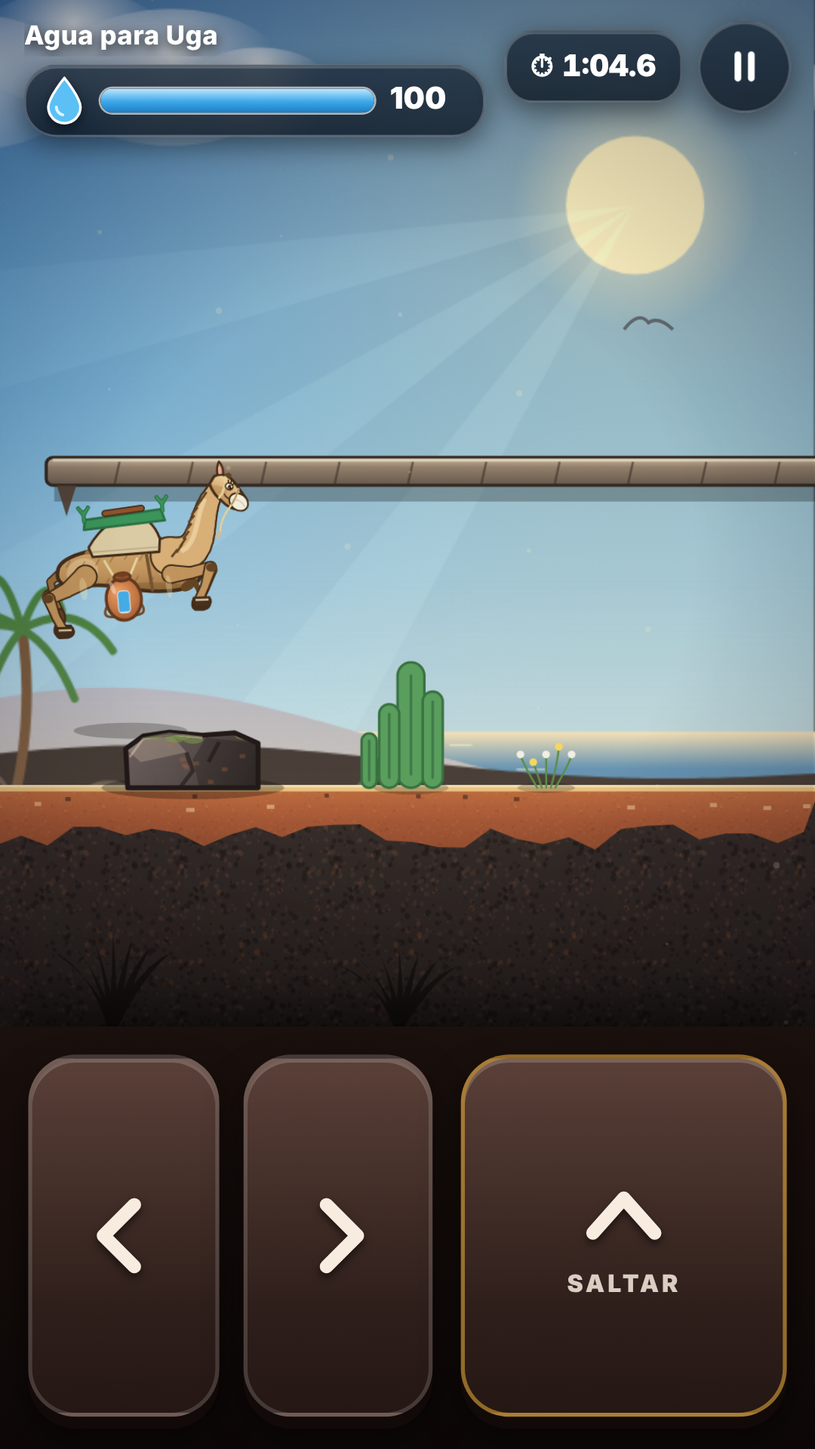
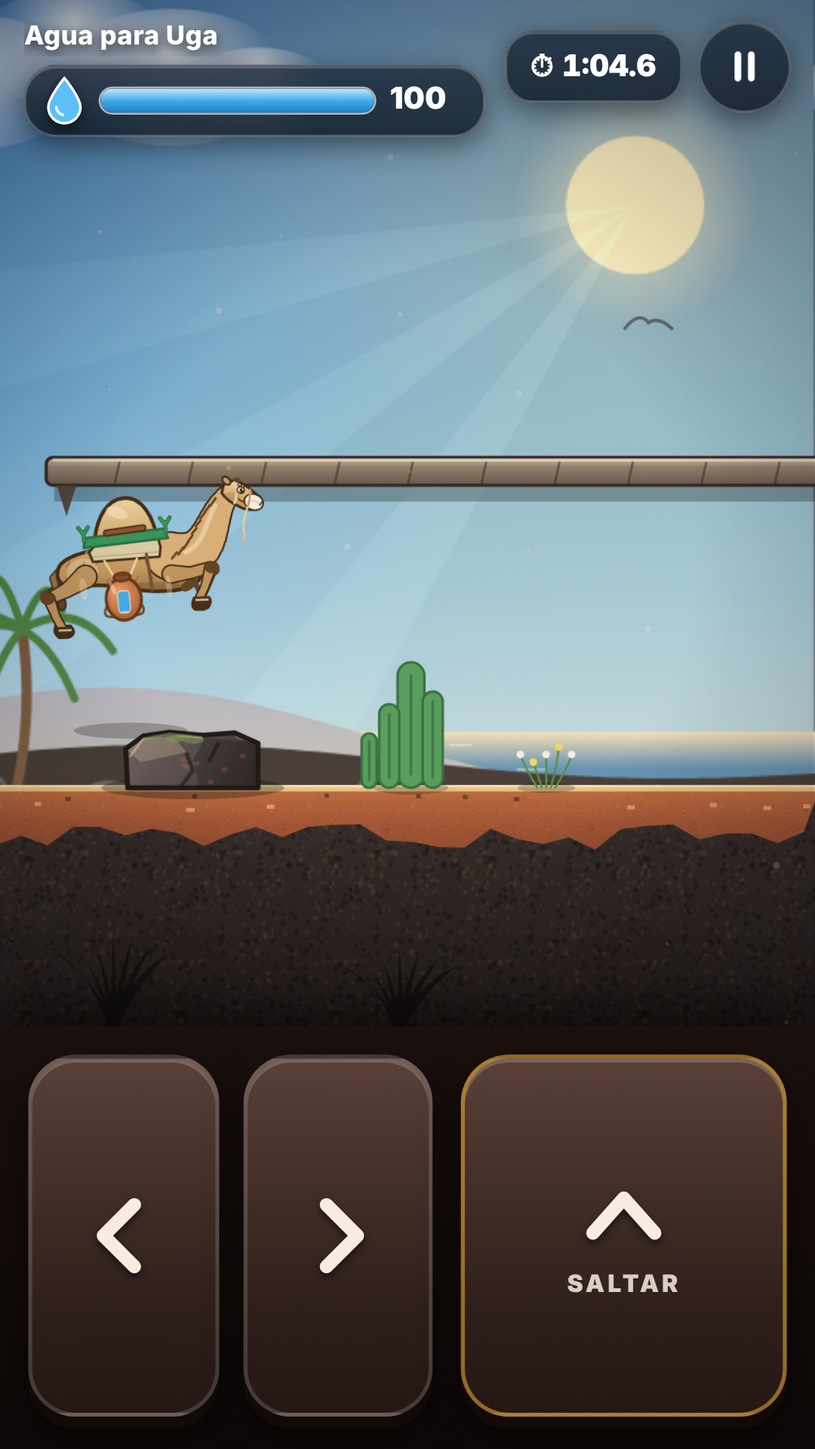
1.6.1: camello más reconocible (joroba grande, cuello grueso en S, orejas cortas, rodillas marcadas) y lagartija atlántica con cola larga y motas azules
Claude-Session: https://claude.ai/code/session_01H2Jf8v1MHtV6zTpVoU4WWj

Changed region(s): [[0.0917, 0.3125, 0.3361, 0.4062], [0.0611, 0.4062, 0.0917, 0.4375]]

diff --git a/docs/app/dibujo.js b/docs/app/dibujo.js
@@ -112,7 +112,7 @@
     conico(ctx, [[hx, hy + 0.05], [(hx + kx) / 2, (hy + ky) / 2], [kx, ky]], [anchoMuslo, anchoMuslo * 0.62, 0.12], col, PEL.borde, 0.04);
     conico(ctx, [[kx, ky], [(kx + ex) / 2, (ky + ey) / 2], [ex, ey + 0.07]], [0.12, 0.08, 0.085], col, PEL.borde, 0.04);
     if (cerca) { ctx.fillStyle = 'rgba(255,235,190,.3)'; ctx.beginPath(); ctx.ellipse(hx - 0.03, hy - 0.1, anchoMuslo * 0.18, 0.14, 0.1, 0, TAU); ctx.fill(); }
-    ctx.fillStyle = PEL.osc; ctx.beginPath(); ctx.ellipse(kx + 0.015 * sg, ky, 0.07, 0.055, 0, 0, TAU); ctx.fill();
+    ctx.fillStyle = PEL.osc; ctx.beginPath(); ctx.ellipse(kx + 0.02 * sg, ky, 0.09, 0.075, 0, 0, TAU); ctx.fill();
     // pie de camello: dedos juntos y almohadilla ancha
     ctx.fillStyle = '#3b2616'; ctx.strokeStyle = PEL.borde; ctx.lineWidth = 0.028;
     ctx.beginPath(); ctx.moveTo(ex - 0.07, ey + 0.08); ctx.quadraticCurveTo(ex - 0.1, ey - 0.01, ex - 0.045, ey - 0.04); ctx.lineTo(ex + 0.06, ey - 0.04); ctx.quadraticCurveTo(ex + 0.17, ey - 0.01, ex + 0.12, ey + 0.08); ctx.closePath(); ctx.fill(); ctx.stroke();
@@ -138,6 +138,7 @@
     // bozal de tela clara (como el de los camellos de Timanfaya)
     ctx.fillStyle = '#f2ecdd'; ctx.strokeStyle = PEL.borde; ctx.lineWidth = 0.025; ctx.beginPath(); ctx.ellipse(0.33, -0.1, 0.15, 0.12, -0.2, 0, TAU); ctx.fill(); ctx.stroke();
     ctx.strokeStyle = 'rgba(120,100,70,.4)'; ctx.lineWidth = 0.012; ctx.beginPath(); ctx.moveTo(0.22, -0.12); ctx.quadraticCurveTo(0.33, -0.04, 0.44, -0.12); ctx.stroke();
+    ctx.strokeStyle = PEL.borde; ctx.lineWidth = 0.02; ctx.beginPath(); ctx.moveTo(0.46, -0.06); ctx.lineTo(0.43, -0.13); ctx.stroke();
     // cabezada de cuerda natural
     ctx.strokeStyle = '#e4cf9a'; ctx.lineWidth = 0.036; ctx.beginPath(); ctx.moveTo(0.24, 0.07); ctx.quadraticCurveTo(0.27, -0.06, 0.25, -0.19); ctx.moveTo(-0.02, 0.17); ctx.quadraticCurveTo(0.08, -0.04, 0.04, -0.17); ctx.stroke();
     ctx.strokeStyle = '#8a6a3a'; ctx.lineWidth = 0.014; ctx.beginPath(); ctx.moveTo(0.24, 0.07); ctx.quadraticCurveTo(0.27, -0.06, 0.25, -0.19); ctx.stroke();
@@ -145,9 +146,9 @@
     const rs = Math.sin(T * 2.3) * 0.03; ctx.strokeStyle = '#e4cf9a'; ctx.lineWidth = 0.03; ctx.beginPath(); ctx.moveTo(0.25, -0.2); ctx.quadraticCurveTo(0.2 + rs, -0.45, 0.28 + rs * 2, -0.62); ctx.stroke(); ctx.fillStyle = '#cdb994'; ctx.beginPath(); ctx.ellipse(0.28 + rs * 2, -0.67, 0.035, 0.055, rs, 0, TAU); ctx.fill();
     // oreja
     const fl = Math.sin(T * 2.7) > 0.93 ? 0.35 : 0;
-    ctx.save(); ctx.translate(-0.1, 0.14); ctx.rotate(0.55 + fl); ctx.fillStyle = PEL.medio; ctx.strokeStyle = PEL.borde; ctx.lineWidth = 0.03;
-    ctx.beginPath(); ctx.moveTo(-0.04, 0); ctx.quadraticCurveTo(-0.05, 0.13, 0.0, 0.2); ctx.quadraticCurveTo(0.06, 0.13, 0.05, 0); ctx.closePath(); ctx.fill(); ctx.stroke();
-    ctx.fillStyle = '#e8a6a0'; ctx.beginPath(); ctx.ellipse(0.0, 0.07, 0.022, 0.06, 0, 0, TAU); ctx.fill(); ctx.restore();
+    ctx.save(); ctx.translate(-0.1, 0.12); ctx.rotate(1.0 + fl); ctx.fillStyle = PEL.medio; ctx.strokeStyle = PEL.borde; ctx.lineWidth = 0.03;
+    ctx.beginPath(); ctx.ellipse(0, 0.05, 0.05, 0.075, 0, 0, TAU); ctx.fill(); ctx.stroke();
+    ctx.fillStyle = '#c98f80'; ctx.beginPath(); ctx.ellipse(0, 0.05, 0.022, 0.045, 0, 0, TAU); ctx.fill(); ctx.restore();
     // flequillo
     ctx.fillStyle = PEL.osc; ctx.beginPath(); ctx.moveTo(-0.05, 0.16); ctx.quadraticCurveTo(0.0, 0.27, 0.07, 0.2); ctx.quadraticCurveTo(0.03, 0.2, 0.06, 0.15); ctx.closePath(); ctx.fill();
     // ojo grande y expresivo
@@ -187,13 +188,13 @@
     ctx.save(); ctx.translate(0, hipY); ctx.rotate(cabeceo); ctx.translate(0, -hipY);
     // cola fina con borla
     const sw = Math.sin(ph * 0.5 + T * 1.5) * 0.07;
-    conico(ctx, [[-0.84, 1.1 + B], [-0.98, 1.0 + B], [-1.0 + sw, 0.8 + B], [-0.95 + sw * 1.5, 0.62 + B]], [0.09, 0.07, 0.06, 0.05], PEL.sombra, PEL.borde, 0.035);
-    ctx.fillStyle = PEL.osc; ctx.strokeStyle = PEL.borde; ctx.lineWidth = 0.025; ctx.beginPath(); ctx.ellipse(-0.95 + sw * 1.5, 0.56 + B, 0.05, 0.1, sw, 0, TAU); ctx.fill(); ctx.stroke();
+    conico(ctx, [[-0.84, 1.12 + B], [-0.94, 1.04 + B], [-0.96 + sw, 0.9 + B], [-0.93 + sw * 1.5, 0.78 + B]], [0.09, 0.07, 0.06, 0.05], PEL.sombra, PEL.borde, 0.035);
+    ctx.fillStyle = PEL.osc; ctx.strokeStyle = PEL.borde; ctx.lineWidth = 0.025; ctx.beginPath(); ctx.ellipse(-0.93 + sw * 1.5, 0.72 + B, 0.05, 0.08, sw, 0, TAU); ctx.fill(); ctx.stroke();
     // cuerpo: lomo, joroba única, pecho hondo y vientre recogido
     ctx.beginPath(); ctx.moveTo(-0.88, 1.12 + B);
     ctx.bezierCurveTo(-0.86, 1.26 + B, -0.62, 1.32 + B, -0.42, 1.34 + B);
-    ctx.bezierCurveTo(-0.34, 1.48 + B, -0.3, 1.66 + B, -0.1, 1.72 + B);
-    ctx.bezierCurveTo(0.1, 1.78 + B, 0.28, 1.68 + B, 0.34, 1.5 + B);
+    ctx.bezierCurveTo(-0.4, 1.5 + B, -0.34, 1.86 + B, -0.08, 1.94 + B);
+    ctx.bezierCurveTo(0.16, 2.0 + B, 0.3, 1.8 + B, 0.36, 1.5 + B);
     ctx.bezierCurveTo(0.38, 1.4 + B, 0.5, 1.36 + B, 0.62, 1.38 + B);
     ctx.bezierCurveTo(0.8, 1.3 + B, 0.95, 1.12 + B, 0.84, 0.88 + B);
     ctx.bezierCurveTo(0.7, 0.72 + B, 0.25, 0.76 + B, -0.1, 0.86 + B);
@@ -216,24 +217,24 @@
     ctx.fillStyle = PEL.osc; for (let i = 0; i < 5; i++) { const x = 0.74 + i * 0.02, y = 1.02 - i * 0.05 + B; ctx.beginPath(); ctx.moveTo(x, y); ctx.quadraticCurveTo(x + 0.1, y - 0.14 + Math.sin(T * 2 + i) * 0.01, x + 0.02, y - 0.2); ctx.lineTo(x - 0.03, y - 0.02); ctx.closePath(); ctx.fill(); }
     // cuello largo en S, saliendo del pecho
     const sway = Math.sin(ph * 0.5) * (corre ? 0.04 : 0.01) + Math.sin(T * 1.7) * 0.012, tip = anim === 'salta' ? 0.06 : anim === 'cae' ? -0.1 : 0;
-    const N = [[0.5, 1.2 + B], [1.02, 1.12 + B], [0.84, 1.72 + B], [1.18, 1.94 + B + tip]];
+    const N = [[0.5, 1.2 + B], [1.08, 1.08 + B], [0.98, 1.66 + B], [1.32, 1.86 + B + tip]];
     const cub = q => { const m = 1 - q; return [m * m * m * N[0][0] + 3 * m * m * q * N[1][0] + 3 * m * q * q * N[2][0] + q * q * q * N[3][0], m * m * m * N[0][1] + 3 * m * m * q * N[1][1] + 3 * m * q * q * N[2][1] + q * q * q * N[3][1]]; };
-    const pts = [], ws = []; for (let i = 0; i <= 12; i++) { const q = i / 12; pts.push(cub(q)); ws.push(0.44 - q * 0.27 + Math.sin(q * Math.PI) * 0.015); }
+    const pts = [], ws = []; for (let i = 0; i <= 12; i++) { const q = i / 12; pts.push(cub(q)); ws.push(0.56 - q * 0.34 + Math.sin(q * Math.PI) * 0.03); }
     conico(ctx, pts, ws, PEL.claro, PEL.borde, 0.045);
     ctx.strokeStyle = 'rgba(255,240,200,.45)'; ctx.lineWidth = 0.06; ctx.beginPath(); for (let i = 2; i <= 10; i++) { const [x, y] = pts[i]; i === 2 ? ctx.moveTo(x - 0.06, y + 0.03) : ctx.lineTo(x - 0.06, y + 0.03); } ctx.stroke();
     ctx.strokeStyle = PEL.osc; ctx.lineWidth = 0.028; for (let i = 3; i < 12; i++) { const [x, y] = pts[i]; ctx.beginPath(); ctx.moveTo(x - ws[i] * 0.45, y + 0.02); ctx.lineTo(x - ws[i] * 0.45 - 0.08, y - 0.07 + Math.sin(T * 3 + i) * 0.01); ctx.stroke(); }
     ctx.fillStyle = PEL.osc; ctx.beginPath(); ctx.moveTo(pts[3][0] + 0.18, pts[3][1] - 0.2); for (let i = 3; i <= 7; i++) { const [x, y] = pts[i]; ctx.lineTo(x + ws[i] * 0.42, y - 0.12 * (1 - (i - 3) / 5) - ws[i] * 0.2); } ctx.globalAlpha *= 0; ctx.fill(); ctx.globalAlpha = st.alpha == null ? 1 : st.alpha;
     // cabeza (pequeña, con el belfo caído)
-    ctx.save(); ctx.translate(pts[12][0] + 0.03, pts[12][1] + 0.0); ctx.rotate(-0.5 - tip * 0.8 + sway); ctx.scale(0.82, 0.82); cabeza(ctx, T, st); ctx.restore();
+    ctx.save(); ctx.translate(pts[12][0] + 0.03, pts[12][1] + 0.0); ctx.rotate(-0.22 - tip * 0.8 + sway); ctx.scale(0.8, 0.8); cabeza(ctx, T, st); ctx.restore();
     // manta acolchada beige y silla de carga verde con asientos de cuero (como las de Timanfaya)
     const verde = '#2f8f55', verdeO = '#1f6a3d', cuero = '#8a4a22';
-    ctx.beginPath(); ctx.moveTo(-0.44, 1.26 + B); ctx.lineTo(-0.48, 1.38 + B); ctx.bezierCurveTo(-0.4, 1.5 + B, -0.28, 1.62 + B, -0.2, 1.64 + B); ctx.lineTo(0.28, 1.64 + B); ctx.bezierCurveTo(0.34, 1.58 + B, 0.38, 1.5 + B, 0.4, 1.42 + B); ctx.lineTo(0.38, 1.26 + B); ctx.closePath();
+    ctx.beginPath(); ctx.moveTo(-0.44, 1.2 + B); ctx.lineTo(-0.48, 1.32 + B); ctx.lineTo(-0.4, 1.4 + B); ctx.lineTo(0.38, 1.42 + B); ctx.lineTo(0.4, 1.32 + B); ctx.lineTo(0.38, 1.2 + B); ctx.closePath();
     ctx.fillStyle = '#d8c9a4'; ctx.fill(); ctx.strokeStyle = PEL.borde; ctx.lineWidth = 0.03; ctx.stroke();
-    ctx.strokeStyle = 'rgba(120,95,65,.35)'; ctx.lineWidth = 0.014; ctx.beginPath(); ctx.moveTo(-0.45, 1.32 + B); ctx.lineTo(0.39, 1.32 + B); ctx.stroke();
+    ctx.strokeStyle = 'rgba(120,95,65,.35)'; ctx.lineWidth = 0.014; ctx.beginPath(); ctx.moveTo(-0.45, 1.26 + B); ctx.lineTo(0.39, 1.26 + B); ctx.stroke();
     // asiento verde inclinado con cojín de cuero y horquillas en los extremos
-    ctx.beginPath(); ctx.moveTo(-0.52, 1.6 + B); ctx.lineTo(-0.5, 1.72 + B); ctx.lineTo(0.44, 1.78 + B); ctx.lineTo(0.48, 1.64 + B); ctx.closePath(); ctx.fillStyle = verde; ctx.fill(); ctx.strokeStyle = verdeO; ctx.lineWidth = 0.03; ctx.stroke();
-    ctx.save(); ctx.translate(-0.02, 1.76 + B); ctx.rotate(0.06); ctx.fillStyle = cuero; rr(ctx, -0.26, 0, 0.52, 0.07, 0.035); ctx.fill(); ctx.strokeStyle = PEL.borde; ctx.lineWidth = 0.018; ctx.stroke(); ctx.restore();
-    for (const [x, s, y] of [[-0.51, -1, 1.7], [0.46, 1, 1.76]]) { ctx.lineCap = 'round'; for (const [c, w] of [[verdeO, 0.05], [verde, 0.028]]) { ctx.strokeStyle = c; ctx.lineWidth = w; ctx.beginPath(); ctx.moveTo(x, y + B); ctx.lineTo(x, y + 0.12 + B); ctx.moveTo(x, y + 0.08 + B); ctx.lineTo(x + 0.06, y + 0.17 + B); ctx.moveTo(x, y + 0.08 + B); ctx.lineTo(x - 0.06, y + 0.17 + B); ctx.stroke(); } }
+    ctx.beginPath(); ctx.moveTo(-0.54, 1.38 + B); ctx.lineTo(-0.52, 1.5 + B); ctx.lineTo(0.46, 1.54 + B); ctx.lineTo(0.5, 1.42 + B); ctx.closePath(); ctx.fillStyle = verde; ctx.fill(); ctx.strokeStyle = verdeO; ctx.lineWidth = 0.03; ctx.stroke();
+    ctx.save(); ctx.translate(-0.02, 1.52 + B); ctx.rotate(0.06); ctx.fillStyle = cuero; rr(ctx, -0.26, 0, 0.52, 0.07, 0.035); ctx.fill(); ctx.strokeStyle = PEL.borde; ctx.lineWidth = 0.018; ctx.stroke(); ctx.restore();
+    for (const [x, s, y] of [[-0.53, -1, 1.46], [0.48, 1, 1.5]]) { ctx.lineCap = 'round'; for (const [c, w] of [[verdeO, 0.05], [verde, 0.028]]) { ctx.strokeStyle = c; ctx.lineWidth = w; ctx.beginPath(); ctx.moveTo(x, y + B); ctx.lineTo(x, y + 0.12 + B); ctx.moveTo(x, y + 0.08 + B); ctx.lineTo(x + 0.06, y + 0.17 + B); ctx.moveTo(x, y + 0.08 + B); ctx.lineTo(x - 0.06, y + 0.17 + B); ctx.stroke(); } }
     // correa de pecho y cincha
     ctx.strokeStyle = '#6b4a2b'; ctx.lineWidth = 0.04; ctx.beginPath(); ctx.moveTo(0.22, 1.24 + B); ctx.lineTo(0.26, 0.8 + B); ctx.stroke();
     ctx.restore();
@@ -417,12 +418,25 @@
       for (const [dx, h, w] of [[0, 1.5, 0.16], [-0.26, 1.0, 0.12], [0.26, 1.15, 0.12], [-0.5, 0.65, 0.09]]) { rr(ctx, dx * s - w * s, -h * s, w * s * 2, h * s, w * s); ctx.fill(); ctx.stroke(); ctx.strokeStyle = 'rgba(30,80,50,.55)'; ctx.beginPath(); ctx.moveTo(dx * s, -h * s + w * s); ctx.lineTo(dx * s, -w * s); ctx.stroke(); ctx.strokeStyle = '#2d6a3c'; }
     } else if (d.t === 'lagarto') {
       const mov = d.px != null && d.px + 2.4 > d.x && d.px < d.x + 3.6, w = mov ? Math.sin(t * 28) : Math.sin(t * 2) * 0.2;
-      ctx.fillStyle = '#4b5a3a'; ctx.strokeStyle = '#2a3322'; ctx.lineWidth = Math.max(1, s * 0.02);
-      ctx.beginPath(); ctx.ellipse(0, -s * 0.1, s * 0.3, s * 0.1, 0, 0, TAU); ctx.fill(); ctx.stroke();
-      ctx.beginPath(); ctx.ellipse(s * 0.33, -s * 0.12, s * 0.12, s * 0.07, 0, 0, TAU); ctx.fill();
-      ctx.beginPath(); ctx.moveTo(-s * 0.28, -s * 0.1); ctx.quadraticCurveTo(-s * 0.55, -s * (0.1 - w * 0.1), -s * 0.75, -s * 0.04 + w * s * 0.05); ctx.stroke();
-      ctx.strokeStyle = '#2a3322'; for (const lx of [-0.15, 0.18]) { ctx.beginPath(); ctx.moveTo(s * lx, -s * 0.06); ctx.lineTo(s * (lx + w * 0.06), 0); ctx.stroke(); }
-      ctx.fillStyle = '#d9d19a'; ctx.beginPath(); ctx.arc(s * 0.38, -s * 0.14, s * 0.018, 0, TAU); ctx.fill();
+      // lagarto atlántico (Gallotia atlantica): esbelto, cabeza en cuña, cola larguísima y motas azules en el costado
+      const L = s * 1.0, lw = Math.max(1, s * 0.022), ph = t * (mov ? 28 : 2);
+      ctx.lineCap = 'round'; ctx.lineJoin = 'round';
+      // cola larga y fina, ondulando
+      ctx.strokeStyle = '#2a2a22'; ctx.lineWidth = s * 0.075; ctx.beginPath(); ctx.moveTo(-L * 0.3, -s * 0.12); ctx.bezierCurveTo(-L * 0.6, -s * (0.1 - w * 0.07), -L * 0.85, -s * (0.04 + w * 0.08), -L * 1.35, -s * (0.1 - w * 0.06)); ctx.stroke();
+      ctx.strokeStyle = '#4a4636'; ctx.lineWidth = s * 0.06; ctx.stroke();
+      // patas con dedos largos (alternas al correr)
+      ctx.strokeStyle = '#3a3a2c'; ctx.lineWidth = s * 0.06;
+      for (const [lx, fase] of [[0.18, 0], [0.18, Math.PI], [-0.12, Math.PI], [-0.12, 0]]) { const sw2 = Math.sin(ph + fase) * (mov ? 0.12 : 0.03), far = fase > 1; ctx.globalAlpha = far ? 0.6 : 1; ctx.beginPath(); ctx.moveTo(s * lx, -s * 0.11); ctx.lineTo(s * (lx - 0.05 + sw2), -s * 0.04); ctx.lineTo(s * (lx + 0.12 + sw2), 0); ctx.stroke(); }
+      ctx.globalAlpha = 1;
+      // cuerpo en huso
+      ctx.fillStyle = '#4a4636'; ctx.strokeStyle = '#25231a'; ctx.lineWidth = lw;
+      ctx.beginPath(); ctx.moveTo(-L * 0.32, -s * 0.13); ctx.bezierCurveTo(-L * 0.1, -s * 0.27, L * 0.2, -s * 0.26, L * 0.36, -s * 0.17); ctx.bezierCurveTo(L * 0.2, -s * 0.05, -L * 0.1, -s * 0.04, -L * 0.32, -s * 0.13); ctx.closePath(); ctx.fill(); ctx.stroke();
+      // cabeza triangular
+      ctx.beginPath(); ctx.moveTo(L * 0.26, -s * 0.22); ctx.quadraticCurveTo(L * 0.45, -s * 0.24, L * 0.6, -s * 0.15); ctx.quadraticCurveTo(L * 0.45, -s * 0.07, L * 0.26, -s * 0.08); ctx.closePath(); ctx.fillStyle = '#524e3a'; ctx.fill(); ctx.stroke();
+      // franjas claras del lomo y motas azules del costado
+      ctx.strokeStyle = '#b9b48a'; ctx.lineWidth = s * 0.018; ctx.beginPath(); ctx.moveTo(-L * 0.28, -s * 0.2); ctx.quadraticCurveTo(0, -s * 0.28, L * 0.3, -s * 0.22); ctx.stroke();
+      ctx.fillStyle = '#4db3d9'; for (let i = 0; i < 5; i++) { ctx.beginPath(); ctx.arc(-L * 0.2 + i * L * 0.12, -s * 0.11 - (i % 2) * s * 0.02, s * 0.022, 0, TAU); ctx.fill(); }
+      ctx.fillStyle = '#e9e2b0'; ctx.beginPath(); ctx.arc(L * 0.43, -s * 0.16, s * 0.02, 0, TAU); ctx.fill();
     } else if (d.t === 'piedra') {
       for (const [dx, r, c] of [[0, 0.18, '#5d5254'], [0.26, 0.11, '#6f6264'], [-0.22, 0.09, '#4c4244']]) { ctx.fillStyle = c; ctx.beginPath(); ctx.ellipse(dx * s, -r * s * 0.6, r * s * 1.2, r * s * 0.8, 0, 0, TAU); ctx.fill(); ctx.fillStyle = 'rgba(255,255,255,.18)'; ctx.beginPath(); ctx.ellipse(dx * s - r * s * 0.3, -r * s * 0.95, r * s * 0.5, r * s * 0.22, 0, 0, TAU); ctx.fill(); }
     } else {

diff --git a/www/dibujo.js b/www/dibujo.js
@@ -112,7 +112,7 @@
     conico(ctx, [[hx, hy + 0.05], [(hx + kx) / 2, (hy + ky) / 2], [kx, ky]], [anchoMuslo, anchoMuslo * 0.62, 0.12], col, PEL.borde, 0.04);
     conico(ctx, [[kx, ky], [(kx + ex) / 2, (ky + ey) / 2], [ex, ey + 0.07]], [0.12, 0.08, 0.085], col, PEL.borde, 0.04);
     if (cerca) { ctx.fillStyle = 'rgba(255,235,190,.3)'; ctx.beginPath(); ctx.ellipse(hx - 0.03, hy - 0.1, anchoMuslo * 0.18, 0.14, 0.1, 0, TAU); ctx.fill(); }
-    ctx.fillStyle = PEL.osc; ctx.beginPath(); ctx.ellipse(kx + 0.015 * sg, ky, 0.07, 0.055, 0, 0, TAU); ctx.fill();
+    ctx.fillStyle = PEL.osc; ctx.beginPath(); ctx.ellipse(kx + 0.02 * sg, ky, 0.09, 0.075, 0, 0, TAU); ctx.fill();
     // pie de camello: dedos juntos y almohadilla ancha
     ctx.fillStyle = '#3b2616'; ctx.strokeStyle = PEL.borde; ctx.lineWidth = 0.028;
     ctx.beginPath(); ctx.moveTo(ex - 0.07, ey + 0.08); ctx.quadraticCurveTo(ex - 0.1, ey - 0.01, ex - 0.045, ey - 0.04); ctx.lineTo(ex + 0.06, ey - 0.04); ctx.quadraticCurveTo(ex + 0.17, ey - 0.01, ex + 0.12, ey + 0.08); ctx.closePath(); ctx.fill(); ctx.stroke();
@@ -138,6 +138,7 @@
     // bozal de tela clara (como el de los camellos de Timanfaya)
     ctx.fillStyle = '#f2ecdd'; ctx.strokeStyle = PEL.borde; ctx.lineWidth = 0.025; ctx.beginPath(); ctx.ellipse(0.33, -0.1, 0.15, 0.12, -0.2, 0, TAU); ctx.fill(); ctx.stroke();
     ctx.strokeStyle = 'rgba(120,100,70,.4)'; ctx.lineWidth = 0.012; ctx.beginPath(); ctx.moveTo(0.22, -0.12); ctx.quadraticCurveTo(0.33, -0.04, 0.44, -0.12); ctx.stroke();
+    ctx.strokeStyle = PEL.borde; ctx.lineWidth = 0.02; ctx.beginPath(); ctx.moveTo(0.46, -0.06); ctx.lineTo(0.43, -0.13); ctx.stroke();
     // cabezada de cuerda natural
     ctx.strokeStyle = '#e4cf9a'; ctx.lineWidth = 0.036; ctx.beginPath(); ctx.moveTo(0.24, 0.07); ctx.quadraticCurveTo(0.27, -0.06, 0.25, -0.19); ctx.moveTo(-0.02, 0.17); ctx.quadraticCurveTo(0.08, -0.04, 0.04, -0.17); ctx.stroke();
     ctx.strokeStyle = '#8a6a3a'; ctx.lineWidth = 0.014; ctx.beginPath(); ctx.moveTo(0.24, 0.07); ctx.quadraticCurveTo(0.27, -0.06, 0.25, -0.19); ctx.stroke();
@@ -145,9 +146,9 @@
     const rs = Math.sin(T * 2.3) * 0.03; ctx.strokeStyle = '#e4cf9a'; ctx.lineWidth = 0.03; ctx.beginPath(); ctx.moveTo(0.25, -0.2); ctx.quadraticCurveTo(0.2 + rs, -0.45, 0.28 + rs * 2, -0.62); ctx.stroke(); ctx.fillStyle = '#cdb994'; ctx.beginPath(); ctx.ellipse(0.28 + rs * 2, -0.67, 0.035, 0.055, rs, 0, TAU); ctx.fill();
     // oreja
     const fl = Math.sin(T * 2.7) > 0.93 ? 0.35 : 0;
-    ctx.save(); ctx.translate(-0.1, 0.14); ctx.rotate(0.55 + fl); ctx.fillStyle = PEL.medio; ctx.strokeStyle = PEL.borde; ctx.lineWidth = 0.03;
-    ctx.beginPath(); ctx.moveTo(-0.04, 0); ctx.quadraticCurveTo(-0.05, 0.13, 0.0, 0.2); ctx.quadraticCurveTo(0.06, 0.13, 0.05, 0); ctx.closePath(); ctx.fill(); ctx.stroke();
-    ctx.fillStyle = '#e8a6a0'; ctx.beginPath(); ctx.ellipse(0.0, 0.07, 0.022, 0.06, 0, 0, TAU); ctx.fill(); ctx.restore();
+    ctx.save(); ctx.translate(-0.1, 0.12); ctx.rotate(1.0 + fl); ctx.fillStyle = PEL.medio; ctx.strokeStyle = PEL.borde; ctx.lineWidth = 0.03;
+    ctx.beginPath(); ctx.ellipse(0, 0.05, 0.05, 0.075, 0, 0, TAU); ctx.fill(); ctx.stroke();
+    ctx.fillStyle = '#c98f80'; ctx.beginPath(); ctx.ellipse(0, 0.05, 0.022, 0.045, 0, 0, TAU); ctx.fill(); ctx.restore();
     // flequillo
     ctx.fillStyle = PEL.osc; ctx.beginPath(); ctx.moveTo(-0.05, 0.16); ctx.quadraticCurveTo(0.0, 0.27, 0.07, 0.2); ctx.quadraticCurveTo(0.03, 0.2, 0.06, 0.15); ctx.closePath(); ctx.fill();
     // ojo grande y expresivo
@@ -187,13 +188,13 @@
     ctx.save(); ctx.translate(0, hipY); ctx.rotate(cabeceo); ctx.translate(0, -hipY);
     // cola fina con borla
     const sw = Math.sin(ph * 0.5 + T * 1.5) * 0.07;
-    conico(ctx, [[-0.84, 1.1 + B], [-0.98, 1.0 + B], [-1.0 + sw, 0.8 + B], [-0.95 + sw * 1.5, 0.62 + B]], [0.09, 0.07, 0.06, 0.05], PEL.sombra, PEL.borde, 0.035);
-    ctx.fillStyle = PEL.osc; ctx.strokeStyle = PEL.borde; ctx.lineWidth = 0.025; ctx.beginPath(); ctx.ellipse(-0.95 + sw * 1.5, 0.56 + B, 0.05, 0.1, sw, 0, TAU); ctx.fill(); ctx.stroke();
+    conico(ctx, [[-0.84, 1.12 + B], [-0.94, 1.04 + B], [-0.96 + sw, 0.9 + B], [-0.93 + sw * 1.5, 0.78 + B]], [0.09, 0.07, 0.06, 0.05], PEL.sombra, PEL.borde, 0.035);
+    ctx.fillStyle = PEL.osc; ctx.strokeStyle = PEL.borde; ctx.lineWidth = 0.025; ctx.beginPath(); ctx.ellipse(-0.93 + sw * 1.5, 0.72 + B, 0.05, 0.08, sw, 0, TAU); ctx.fill(); ctx.stroke();
     // cuerpo: lomo, joroba única, pecho hondo y vientre recogido
     ctx.beginPath(); ctx.moveTo(-0.88, 1.12 + B);
     ctx.bezierCurveTo(-0.86, 1.26 + B, -0.62, 1.32 + B, -0.42, 1.34 + B);
-    ctx.bezierCurveTo(-0.34, 1.48 + B, -0.3, 1.66 + B, -0.1, 1.72 + B);
-    ctx.bezierCurveTo(0.1, 1.78 + B, 0.28, 1.68 + B, 0.34, 1.5 + B);
+    ctx.bezierCurveTo(-0.4, 1.5 + B, -0.34, 1.86 + B, -0.08, 1.94 + B);
+    ctx.bezierCurveTo(0.16, 2.0 + B, 0.3, 1.8 + B, 0.36, 1.5 + B);
     ctx.bezierCurveTo(0.38, 1.4 + B, 0.5, 1.36 + B, 0.62, 1.38 + B);
     ctx.bezierCurveTo(0.8, 1.3 + B, 0.95, 1.12 + B, 0.84, 0.88 + B);
     ctx.bezierCurveTo(0.7, 0.72 + B, 0.25, 0.76 + B, -0.1, 0.86 + B);
@@ -216,24 +217,24 @@
     ctx.fillStyle = PEL.osc; for (let i = 0; i < 5; i++) { const x = 0.74 + i * 0.02, y = 1.02 - i * 0.05 + B; ctx.beginPath(); ctx.moveTo(x, y); ctx.quadraticCurveTo(x + 0.1, y - 0.14 + Math.sin(T * 2 + i) * 0.01, x + 0.02, y - 0.2); ctx.lineTo(x - 0.03, y - 0.02); ctx.closePath(); ctx.fill(); }
     // cuello largo en S, saliendo del pecho
     const sway = Math.sin(ph * 0.5) * (corre ? 0.04 : 0.01) + Math.sin(T * 1.7) * 0.012, tip = anim === 'salta' ? 0.06 : anim === 'cae' ? -0.1 : 0;
-    const N = [[0.5, 1.2 + B], [1.02, 1.12 + B], [0.84, 1.72 + B], [1.18, 1.94 + B + tip]];
+    const N = [[0.5, 1.2 + B], [1.08, 1.08 + B], [0.98, 1.66 + B], [1.32, 1.86 + B + tip]];
     const cub = q => { const m = 1 - q; return [m * m * m * N[0][0] + 3 * m * m * q * N[1][0] + 3 * m * q * q * N[2][0] + q * q * q * N[3][0], m * m * m * N[0][1] + 3 * m * m * q * N[1][1] + 3 * m * q * q * N[2][1] + q * q * q * N[3][1]]; };
-    const pts = [], ws = []; for (let i = 0; i <= 12; i++) { const q = i / 12; pts.push(cub(q)); ws.push(0.44 - q * 0.27 + Math.sin(q * Math.PI) * 0.015); }
+    const pts = [], ws = []; for (let i = 0; i <= 12; i++) { const q = i / 12; pts.push(cub(q)); ws.push(0.56 - q * 0.34 + Math.sin(q * Math.PI) * 0.03); }
     conico(ctx, pts, ws, PEL.claro, PEL.borde, 0.045);
     ctx.strokeStyle = 'rgba(255,240,200,.45)'; ctx.lineWidth = 0.06; ctx.beginPath(); for (let i = 2; i <= 10; i++) { const [x, y] = pts[i]; i === 2 ? ctx.moveTo(x - 0.06, y + 0.03) : ctx.lineTo(x - 0.06, y + 0.03); } ctx.stroke();
     ctx.strokeStyle = PEL.osc; ctx.lineWidth = 0.028; for (let i = 3; i < 12; i++) { const [x, y] = pts[i]; ctx.beginPath(); ctx.moveTo(x - ws[i] * 0.45, y + 0.02); ctx.lineTo(x - ws[i] * 0.45 - 0.08, y - 0.07 + Math.sin(T * 3 + i) * 0.01); ctx.stroke(); }
     ctx.fillStyle = PEL.osc; ctx.beginPath(); ctx.moveTo(pts[3][0] + 0.18, pts[3][1] - 0.2); for (let i = 3; i <= 7; i++) { const [x, y] = pts[i]; ctx.lineTo(x + ws[i] * 0.42, y - 0.12 * (1 - (i - 3) / 5) - ws[i] * 0.2); } ctx.globalAlpha *= 0; ctx.fill(); ctx.globalAlpha = st.alpha == null ? 1 : st.alpha;
     // cabeza (pequeña, con el belfo caído)
-    ctx.save(); ctx.translate(pts[12][0] + 0.03, pts[12][1] + 0.0); ctx.rotate(-0.5 - tip * 0.8 + sway); ctx.scale(0.82, 0.82); cabeza(ctx, T, st); ctx.restore();
+    ctx.save(); ctx.translate(pts[12][0] + 0.03, pts[12][1] + 0.0); ctx.rotate(-0.22 - tip * 0.8 + sway); ctx.scale(0.8, 0.8); cabeza(ctx, T, st); ctx.restore();
     // manta acolchada beige y silla de carga verde con asientos de cuero (como las de Timanfaya)
     const verde = '#2f8f55', verdeO = '#1f6a3d', cuero = '#8a4a22';
-    ctx.beginPath(); ctx.moveTo(-0.44, 1.26 + B); ctx.lineTo(-0.48, 1.38 + B); ctx.bezierCurveTo(-0.4, 1.5 + B, -0.28, 1.62 + B, -0.2, 1.64 + B); ctx.lineTo(0.28, 1.64 + B); ctx.bezierCurveTo(0.34, 1.58 + B, 0.38, 1.5 + B, 0.4, 1.42 + B); ctx.lineTo(0.38, 1.26 + B); ctx.closePath();
+    ctx.beginPath(); ctx.moveTo(-0.44, 1.2 + B); ctx.lineTo(-0.48, 1.32 + B); ctx.lineTo(-0.4, 1.4 + B); ctx.lineTo(0.38, 1.42 + B); ctx.lineTo(0.4, 1.32 + B); ctx.lineTo(0.38, 1.2 + B); ctx.closePath();
     ctx.fillStyle = '#d8c9a4'; ctx.fill(); ctx.strokeStyle = PEL.borde; ctx.lineWidth = 0.03; ctx.stroke();
-    ctx.strokeStyle = 'rgba(120,95,65,.35)'; ctx.lineWidth = 0.014; ctx.beginPath(); ctx.moveTo(-0.45, 1.32 + B); ctx.lineTo(0.39, 1.32 + B); ctx.stroke();
+    ctx.strokeStyle = 'rgba(120,95,65,.35)'; ctx.lineWidth = 0.014; ctx.beginPath(); ctx.moveTo(-0.45, 1.26 + B); ctx.lineTo(0.39, 1.26 + B); ctx.stroke();
     // asiento verde inclinado con cojín de cuero y horquillas en los extremos
-    ctx.beginPath(); ctx.moveTo(-0.52, 1.6 + B); ctx.lineTo(-0.5, 1.72 + B); ctx.lineTo(0.44, 1.78 + B); ctx.lineTo(0.48, 1.64 + B); ctx.closePath(); ctx.fillStyle = verde; ctx.fill(); ctx.strokeStyle = verdeO; ctx.lineWidth = 0.03; ctx.stroke();
-    ctx.save(); ctx.translate(-0.02, 1.76 + B); ctx.rotate(0.06); ctx.fillStyle = cuero; rr(ctx, -0.26, 0, 0.52, 0.07, 0.035); ctx.fill(); ctx.strokeStyle = PEL.borde; ctx.lineWidth = 0.018; ctx.stroke(); ctx.restore();
-    for (const [x, s, y] of [[-0.51, -1, 1.7], [0.46, 1, 1.76]]) { ctx.lineCap = 'round'; for (const [c, w] of [[verdeO, 0.05], [verde, 0.028]]) { ctx.strokeStyle = c; ctx.lineWidth = w; ctx.beginPath(); ctx.moveTo(x, y + B); ctx.lineTo(x, y + 0.12 + B); ctx.moveTo(x, y + 0.08 + B); ctx.lineTo(x + 0.06, y + 0.17 + B); ctx.moveTo(x, y + 0.08 + B); ctx.lineTo(x - 0.06, y + 0.17 + B); ctx.stroke(); } }
+    ctx.beginPath(); ctx.moveTo(-0.54, 1.38 + B); ctx.lineTo(-0.52, 1.5 + B); ctx.lineTo(0.46, 1.54 + B); ctx.lineTo(0.5, 1.42 + B); ctx.closePath(); ctx.fillStyle = verde; ctx.fill(); ctx.strokeStyle = verdeO; ctx.lineWidth = 0.03; ctx.stroke();
+    ctx.save(); ctx.translate(-0.02, 1.52 + B); ctx.rotate(0.06); ctx.fillStyle = cuero; rr(ctx, -0.26, 0, 0.52, 0.07, 0.035); ctx.fill(); ctx.strokeStyle = PEL.borde; ctx.lineWidth = 0.018; ctx.stroke(); ctx.restore();
+    for (const [x, s, y] of [[-0.53, -1, 1.46], [0.48, 1, 1.5]]) { ctx.lineCap = 'round'; for (const [c, w] of [[verdeO, 0.05], [verde, 0.028]]) { ctx.strokeStyle = c; ctx.lineWidth = w; ctx.beginPath(); ctx.moveTo(x, y + B); ctx.lineTo(x, y + 0.12 + B); ctx.moveTo(x, y + 0.08 + B); ctx.lineTo(x + 0.06, y + 0.17 + B); ctx.moveTo(x, y + 0.08 + B); ctx.lineTo(x - 0.06, y + 0.17 + B); ctx.stroke(); } }
     // correa de pecho y cincha
     ctx.strokeStyle = '#6b4a2b'; ctx.lineWidth = 0.04; ctx.beginPath(); ctx.moveTo(0.22, 1.24 + B); ctx.lineTo(0.26, 0.8 + B); ctx.stroke();
     ctx.restore();
@@ -417,12 +418,25 @@
       for (const [dx, h, w] of [[0, 1.5, 0.16], [-0.26, 1.0, 0.12], [0.26, 1.15, 0.12], [-0.5, 0.65, 0.09]]) { rr(ctx, dx * s - w * s, -h * s, w * s * 2, h * s, w * s); ctx.fill(); ctx.stroke(); ctx.strokeStyle = 'rgba(30,80,50,.55)'; ctx.beginPath(); ctx.moveTo(dx * s, -h * s + w * s); ctx.lineTo(dx * s, -w * s); ctx.stroke(); ctx.strokeStyle = '#2d6a3c'; }
     } else if (d.t === 'lagarto') {
       const mov = d.px != null && d.px + 2.4 > d.x && d.px < d.x + 3.6, w = mov ? Math.sin(t * 28) : Math.sin(t * 2) * 0.2;
-      ctx.fillStyle = '#4b5a3a'; ctx.strokeStyle = '#2a3322'; ctx.lineWidth = Math.max(1, s * 0.02);
-      ctx.beginPath(); ctx.ellipse(0, -s * 0.1, s * 0.3, s * 0.1, 0, 0, TAU); ctx.fill(); ctx.stroke();
-      ctx.beginPath(); ctx.ellipse(s * 0.33, -s * 0.12, s * 0.12, s * 0.07, 0, 0, TAU); ctx.fill();
-      ctx.beginPath(); ctx.moveTo(-s * 0.28, -s * 0.1); ctx.quadraticCurveTo(-s * 0.55, -s * (0.1 - w * 0.1), -s * 0.75, -s * 0.04 + w * s * 0.05); ctx.stroke();
-      ctx.strokeStyle = '#2a3322'; for (const lx of [-0.15, 0.18]) { ctx.beginPath(); ctx.moveTo(s * lx, -s * 0.06); ctx.lineTo(s * (lx + w * 0.06), 0); ctx.stroke(); }
-      ctx.fillStyle = '#d9d19a'; ctx.beginPath(); ctx.arc(s * 0.38, -s * 0.14, s * 0.018, 0, TAU); ctx.fill();
+      // lagarto atlántico (Gallotia atlantica): esbelto, cabeza en cuña, cola larguísima y motas azules en el costado
+      const L = s * 1.0, lw = Math.max(1, s * 0.022), ph = t * (mov ? 28 : 2);
+      ctx.lineCap = 'round'; ctx.lineJoin = 'round';
+      // cola larga y fina, ondulando
+      ctx.strokeStyle = '#2a2a22'; ctx.lineWidth = s * 0.075; ctx.beginPath(); ctx.moveTo(-L * 0.3, -s * 0.12); ctx.bezierCurveTo(-L * 0.6, -s * (0.1 - w * 0.07), -L * 0.85, -s * (0.04 + w * 0.08), -L * 1.35, -s * (0.1 - w * 0.06)); ctx.stroke();
+      ctx.strokeStyle = '#4a4636'; ctx.lineWidth = s * 0.06; ctx.stroke();
+      // patas con dedos largos (alternas al correr)
+      ctx.strokeStyle = '#3a3a2c'; ctx.lineWidth = s * 0.06;
+      for (const [lx, fase] of [[0.18, 0], [0.18, Math.PI], [-0.12, Math.PI], [-0.12, 0]]) { const sw2 = Math.sin(ph + fase) * (mov ? 0.12 : 0.03), far = fase > 1; ctx.globalAlpha = far ? 0.6 : 1; ctx.beginPath(); ctx.moveTo(s * lx, -s * 0.11); ctx.lineTo(s * (lx - 0.05 + sw2), -s * 0.04); ctx.lineTo(s * (lx + 0.12 + sw2), 0); ctx.stroke(); }
+      ctx.globalAlpha = 1;
+      // cuerpo en huso
+      ctx.fillStyle = '#4a4636'; ctx.strokeStyle = '#25231a'; ctx.lineWidth = lw;
+      ctx.beginPath(); ctx.moveTo(-L * 0.32, -s * 0.13); ctx.bezierCurveTo(-L * 0.1, -s * 0.27, L * 0.2, -s * 0.26, L * 0.36, -s * 0.17); ctx.bezierCurveTo(L * 0.2, -s * 0.05, -L * 0.1, -s * 0.04, -L * 0.32, -s * 0.13); ctx.closePath(); ctx.fill(); ctx.stroke();
+      // cabeza triangular
+      ctx.beginPath(); ctx.moveTo(L * 0.26, -s * 0.22); ctx.quadraticCurveTo(L * 0.45, -s * 0.24, L * 0.6, -s * 0.15); ctx.quadraticCurveTo(L * 0.45, -s * 0.07, L * 0.26, -s * 0.08); ctx.closePath(); ctx.fillStyle = '#524e3a'; ctx.fill(); ctx.stroke();
+      // franjas claras del lomo y motas azules del costado
+      ctx.strokeStyle = '#b9b48a'; ctx.lineWidth = s * 0.018; ctx.beginPath(); ctx.moveTo(-L * 0.28, -s * 0.2); ctx.quadraticCurveTo(0, -s * 0.28, L * 0.3, -s * 0.22); ctx.stroke();
+      ctx.fillStyle = '#4db3d9'; for (let i = 0; i < 5; i++) { ctx.beginPath(); ctx.arc(-L * 0.2 + i * L * 0.12, -s * 0.11 - (i % 2) * s * 0.02, s * 0.022, 0, TAU); ctx.fill(); }
+      ctx.fillStyle = '#e9e2b0'; ctx.beginPath(); ctx.arc(L * 0.43, -s * 0.16, s * 0.02, 0, TAU); ctx.fill();
     } else if (d.t === 'piedra') {
       for (const [dx, r, c] of [[0, 0.18, '#5d5254'], [0.26, 0.11, '#6f6264'], [-0.22, 0.09, '#4c4244']]) { ctx.fillStyle = c; ctx.beginPath(); ctx.ellipse(dx * s, -r * s * 0.6, r * s * 1.2, r * s * 0.8, 0, 0, TAU); ctx.fill(); ctx.fillStyle = 'rgba(255,255,255,.18)'; ctx.beginPath(); ctx.ellipse(dx * s - r * s * 0.3, -r * s * 0.95, r * s * 0.5, r * s * 0.22, 0, 0, TAU); ctx.fill(); }
     } else {

diff --git a/docs/app/sw.js b/docs/app/sw.js
@@ -1,7 +1,7 @@
 // Service worker: deja la versión web disponible sin conexión.
 // En la app Android no hace falta (los archivos ya van dentro del APK) y podría servir
 // una versión antigua tras actualizar, así que allí se da de baja solo.
-const CACHE = 'martin-v1.6.0';
+const CACHE = 'martin-v1.6.1';
 const ASSETS = ['./', 'index.html', 'martin.js', 'niveles.js', 'juego.js', 'dibujo.js', 'manifest.webmanifest', 'icons/icon-192.png', 'icons/icon-512.png', 'icons/icon-maskable-512.png', 'icons/apple-touch-icon.png', 'i18n-en.js', 'i18n-fr.js', 'i18n-de.js', 'i18n-it.js', 'idioma.js', 'masjuegos.js', 'audio-suave.js', 'turno.js', 'contador.js', 'invitacion.js', 'publicas.js', 'juegos/ajedrez.png', 'juegos/chinchon.png', 'juegos/pumba.png', 'juegos/damas.png', 'juegos/parchis.png', 'juegos/poker.png', 'juegos/uno.png', 'juegos/martin.png'];
 const NATIVE = self.location.hostname === 'localhost' && self.location.protocol === 'https:';
 

diff --git a/www/sw.js b/www/sw.js
@@ -1,7 +1,7 @@
 // Service worker: deja la versión web disponible sin conexión.
 // En la app Android no hace falta (los archivos ya van dentro del APK) y podría servir
 // una versión antigua tras actualizar, así que allí se da de baja solo.
-const CACHE = 'martin-v1.6.0';
+const CACHE = 'martin-v1.6.1';
 const ASSETS = ['./', 'index.html', 'martin.js', 'niveles.js', 'juego.js', 'dibujo.js', 'manifest.webmanifest', 'icons/icon-192.png', 'icons/icon-512.png', 'icons/icon-maskable-512.png', 'icons/apple-touch-icon.png', 'i18n-en.js', 'i18n-fr.js', 'i18n-de.js', 'i18n-it.js', 'idioma.js', 'masjuegos.js', 'audio-suave.js', 'turno.js', 'contador.js', 'invitacion.js', 'publicas.js', 'juegos/ajedrez.png', 'juegos/chinchon.png', 'juegos/pumba.png', 'juegos/damas.png', 'juegos/parchis.png', 'juegos/poker.png', 'juegos/uno.png', 'juegos/martin.png'];
 const NATIVE = self.location.hostname === 'localhost' && self.location.protocol === 'https:';
 

diff --git a/docs/app/index.html b/docs/app/index.html
@@ -406,7 +406,7 @@ function openThemes() {
   AvisoTurno.enlazar();
 }
 
-const APP_VERSION = '1.6.0';
+const APP_VERSION = '1.6.1';
 const REPO = 'csuarezsm/Martin';
 const MAX_ARCHIVE = 500;
 const uid = () => Math.random().toString(36).slice(2, 10);

diff --git a/www/index.html b/www/index.html
@@ -406,7 +406,7 @@ function openThemes() {
   AvisoTurno.enlazar();
 }
 
-const APP_VERSION = '1.6.0';
+const APP_VERSION = '1.6.1';
 const REPO = 'csuarezsm/Martin';
 const MAX_ARCHIVE = 500;
 const uid = () => Math.random().toString(36).slice(2, 10);

diff --git a/README.md b/README.md
@@ -2,7 +2,7 @@
 
 Un camello canario joven de Uga lleva el agua por los caminos que dejó la tormenta: lava, rocas, huecos y bajadas. **6 niveles de plataformas** con tres estrellas cada uno, a veces con dos caminos (uno rápido y arriesgado, otro lento y seguro), y un **reto diario** igual para todos con ranking.
 Para Android e iPhone. Gratis, sin anuncios y sin cuentas. App Capacitor + web (`www/`). Todo se guarda en el móvil; solo el reto diario usa el servidor de juegos (nombre y pulsaciones, para comprobar el tiempo).
-Paquete: `com.itcanarias.martin` · versión 1.6.0
+Paquete: `com.itcanarias.martin` · versión 1.6.1
 
 **iPhone y navegadores**: la misma app se publica como versión web instalable en https://csuarezsm.github.io/Martin/app/ (GitHub Pages, carpeta `docs/app`, copia de `www/`). En Safari: Compartir → «Añadir a pantalla de inicio». Tras cambiar `www/`, ejecuta `npm run web`.
 
